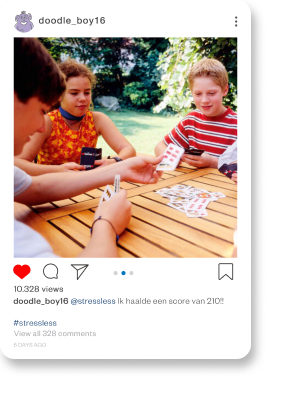
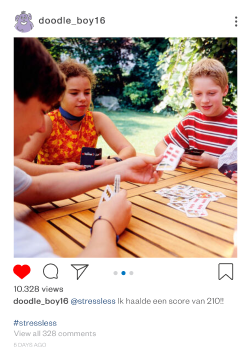
pijltjes goed uitgelijnd

diff --git a/Pages/4. Hulpmiddelen/hulpmiddelen.css b/Pages/4. Hulpmiddelen/hulpmiddelen.css
@@ -10,7 +10,7 @@
 }
 
 body {
-  background-image: url("./Images/Background.png");
+  background-image: url("./images/achtergrond.png");
   background-size: cover;
   background-position: center;
   background-repeat: repeat;
@@ -21,7 +21,7 @@ h1 {
   font-weight: lighter;
   font-size: 3.125rem;
   margin: 7vw 0 0 7vw;
-  text-align: center;
+  text-align: left;
 }
 
 .box {
@@ -32,17 +32,16 @@ h1 {
 }
 
 .name_hulp {
-  margin: 0 7vw 0 7vw;
+  margin: 4vw 7vw 1vh 7vw;
   border-radius: 6px;
   display: flex;
   align-items: center;
-  justify-content: center;
+  justify-content: space-between;
 }
 .name_hulp h2 {
   font-family: "Red Hat Display", sans-serif;
   font-size: 1.125rem;
-  margin-bottom: 1vh;
-  margin-top: 4vh;
+  text-align: left;
   line-height: 0.95;
 }
 .name_hulp button {
@@ -51,8 +50,8 @@ h1 {
   margin: 0vw 3vw 0vw 3vw;
   border-color: black;
   position: relative;
-  width: 40px; /* Adjust as needed */
-  height: 40px; /* Adjust as needed */
+  width: 30px;
+  height: 30px;
   border-radius: 50%;
   border-style: solid;
   border-color: black;
@@ -64,4 +63,15 @@ h1 {
   left: 50%;
   transform: translate(-50%, -50%);
   color: black;
+}
+.buttons {
+  margin-left: 1vw;
+}
+.slideshow_container {
+  display: flex;
+  justify-content: center;
+  align-items: center;
+  width: 100%;
+}
+.slideshow_container img {
 }

diff --git a/Pages/4. Hulpmiddelen/hulpmiddelen.html b/Pages/4. Hulpmiddelen/hulpmiddelen.html
@@ -16,16 +16,18 @@
 
     <div class="name_hulp">
       <h2>Social media posts</h2>
-      <button class="prev" onclick="changeSlide(-1)">
-        <i class="fas fa-chevron-left"></i>
-      </button>
-      <button class="next" onclick="changeSlide(1)">
-        <i class="fas fa-chevron-right"></i>
-      </button>
+      <div class="buttons">
+        <button class="prev" onclick="changeSlide(-1)">
+          <i class="fas fa-chevron-left"></i>
+        </button>
+        <button class="next" onclick="changeSlide(1)">
+          <i class="fas fa-chevron-right"></i>
+        </button>
+      </div>
     </div>
 
     <div class="box" id="introbox">
-      <div class="slideshow-container">
+      <div class="slideshow_container">
         <img src="./images/instapost.png" alt="" srcset="" id="slideImage" />
       </div>
     </div>
